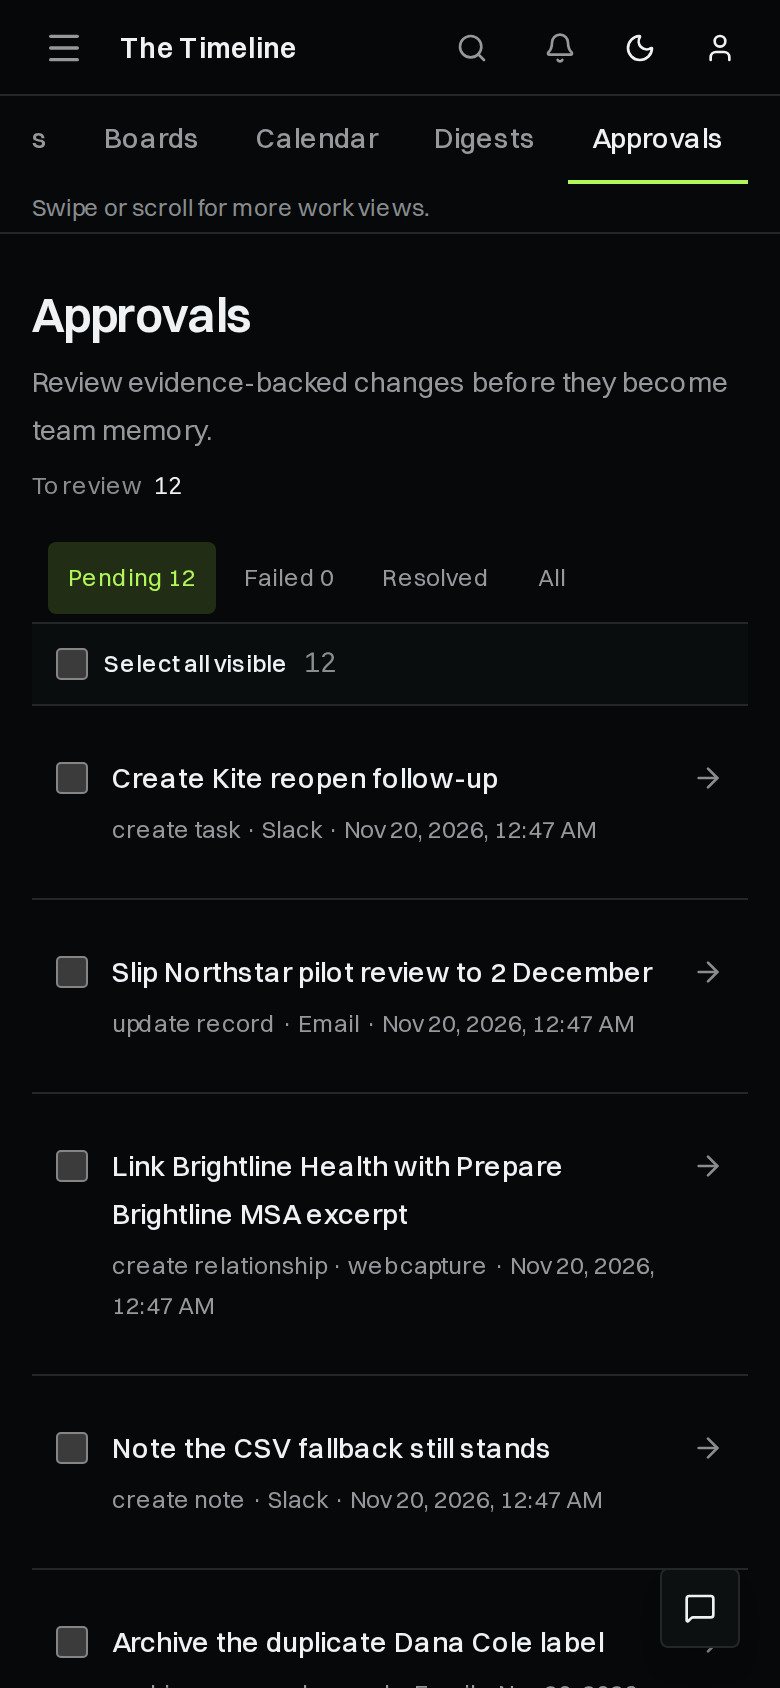
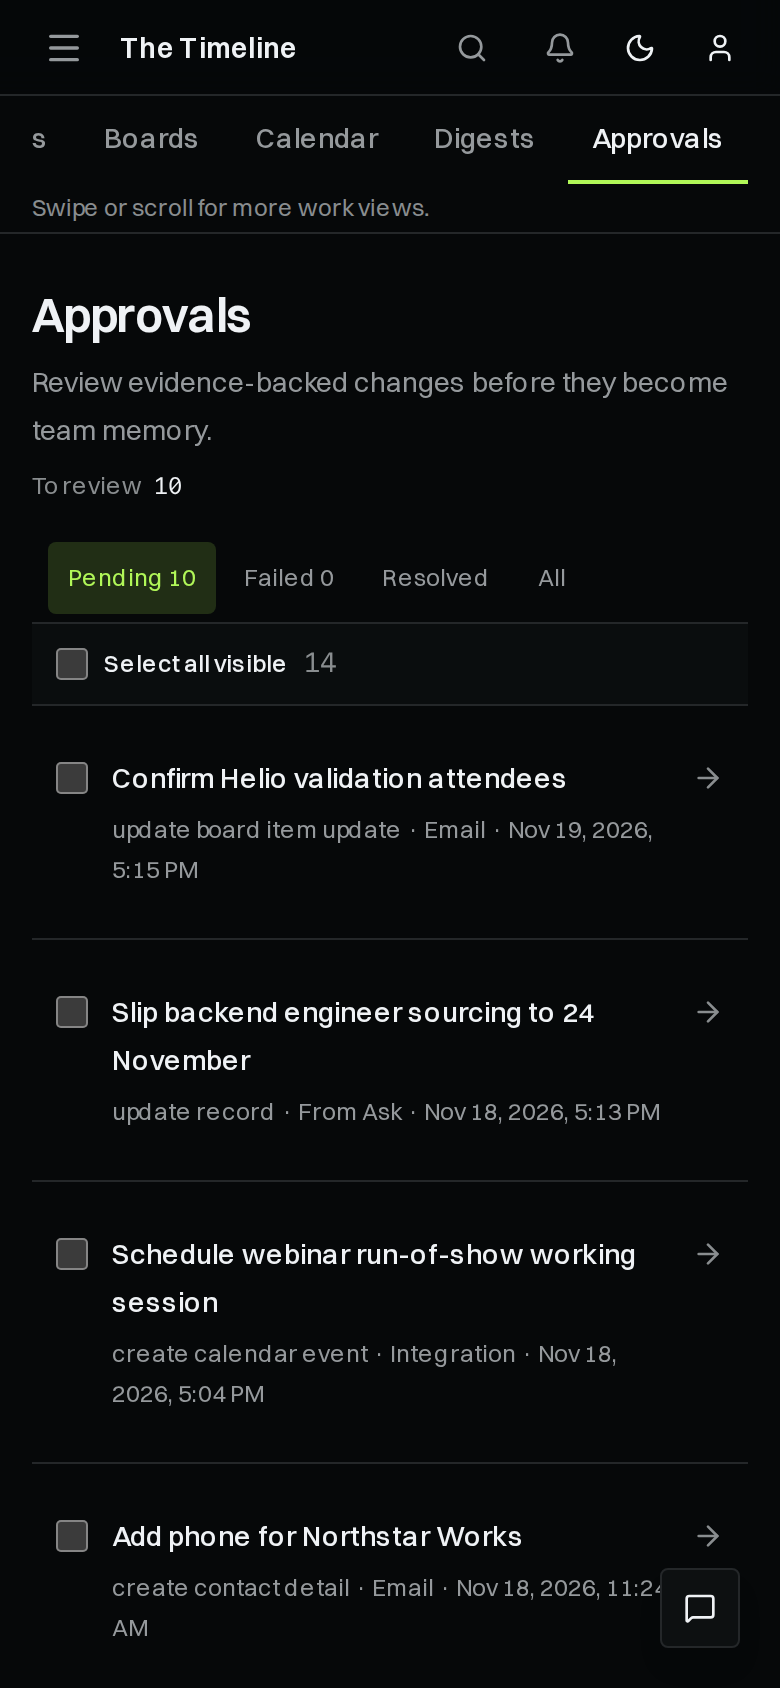
Stagger demo proposal and summary timestamps for marketing captures
Drive approval createdAt and object-summary generatedAt from evidence and
story source times so tour screenshots no longer share one seed-clock stamp.

diff --git a/scripts/demo-corpus/insert.ts b/scripts/demo-corpus/insert.ts
@@ -169,6 +169,38 @@ function seedNow(): Date {
   return getDemoSeedNow();
 }
 
+function corpusEventOccurredAt(eventId: string): Date {
+  const row = CORPUS_EVENTS.find((event) => event.id === eventId);
+  if (!row) throw new Error(`Missing corpus event ${eventId}`);
+  return new Date(row.occurredAt);
+}
+
+/** Proposal times follow the triggering evidence, staggered by index so the queue does not share one seed clock. */
+export function demoProposalCreatedAt(eventOccurredAt: string | Date, proposalIndex: number): Date {
+  const base = new Date(eventOccurredAt).getTime();
+  if (!Number.isFinite(base)) {
+    throw new Error(`Invalid evidence time for demo proposal index ${String(proposalIndex)}`);
+  }
+  // 8–N minutes after the evidence so same-day proposals stay distinct without collapsing to seedNow.
+  return new Date(base + (8 + proposalIndex * 13) * 60_000);
+}
+
+/** Object-summary "Updated" stamps follow the latest cited source, not the seed wall clock. */
+export function demoSummaryGeneratedAt(
+  latestSourceOccurredAt: string | Date,
+  lagMinutes = 35,
+): Date {
+  const base = new Date(latestSourceOccurredAt).getTime();
+  if (!Number.isFinite(base)) {
+    throw new Error('Invalid source time for demo object summary');
+  }
+  return new Date(base + lagMinutes * 60_000);
+}
+
+function proposalCreatedAt(eventId: string, proposalIndex: number): Date {
+  return demoProposalCreatedAt(corpusEventOccurredAt(eventId), proposalIndex);
+}
+
 export async function insertExpandedDemoCorpus(tx: SeedTx): Promise<void> {
   const passwordHash = await hashPassword(CORPUS_PASSWORD);
   await insertPeople(tx, passwordHash);
@@ -1123,7 +1155,7 @@ async function insertObjects(tx: SeedTx): Promise<void> {
           tasks: 0,
           changes: 0,
         },
-        generatedAt: seedNow(),
+        generatedAt: demoSummaryGeneratedAt(corpusEventOccurredAt(dataRoomEventId), 42),
         model: DEMO_FIXTURE_VERSION,
         promptVersion: DEMO_FIXTURE_VERSION,
       },
@@ -1182,7 +1214,7 @@ async function insertObjects(tx: SeedTx): Promise<void> {
           tasks: 1,
           changes: 0,
         },
-        generatedAt: seedNow(),
+        generatedAt: demoSummaryGeneratedAt(corpusEventOccurredAt(northstarVoiceEventId), 28),
         model: DEMO_FIXTURE_VERSION,
         promptVersion: DEMO_FIXTURE_VERSION,
       },
@@ -1221,7 +1253,7 @@ async function insertObjects(tx: SeedTx): Promise<void> {
           tasks: 0,
           changes: 0,
         },
-        generatedAt: seedNow(),
+        generatedAt: demoSummaryGeneratedAt(corpusEventOccurredAt(invoicePaidEventId), 31),
         model: DEMO_FIXTURE_VERSION,
         promptVersion: DEMO_FIXTURE_VERSION,
       },
@@ -1234,6 +1266,7 @@ async function insertObjects(tx: SeedTx): Promise<void> {
         entityId: sql`excluded.entity_id`,
         sourceRefs: sql`excluded.source_refs`,
         sourceCounts: sql`excluded.source_counts`,
+        generatedAt: sql`excluded.generated_at`,
       },
     });
 
@@ -1665,21 +1698,24 @@ async function insertProposals(tx: SeedTx): Promise<void> {
   await tx
     .insert(agentSuggestions)
     .values(
-      CORPUS_PROPOSALS.map((row) => ({
-        id: row.id,
-        teamId: TEAM_ID,
-        source: row.source,
-        status: 'pending' as const,
-        title: row.title,
-        summary: row.summary,
-        reason: row.summary,
-        confidence: 'high' as const,
-        dedupeKey: `demo-seed:proposal:${row.id}`,
-        visibility: 'team' as const,
-        metadata: { fixture_version: DEMO_FIXTURE_VERSION },
-        createdAt: seedNow(),
-        updatedAt: seedNow(),
-      })),
+      CORPUS_PROPOSALS.map((row, index) => {
+        const createdAt = proposalCreatedAt(row.eventId, index);
+        return {
+          id: row.id,
+          teamId: TEAM_ID,
+          source: row.source,
+          status: 'pending' as const,
+          title: row.title,
+          summary: row.summary,
+          reason: row.summary,
+          confidence: 'high' as const,
+          dedupeKey: `demo-seed:proposal:${row.id}`,
+          visibility: 'team' as const,
+          metadata: { fixture_version: DEMO_FIXTURE_VERSION },
+          createdAt,
+          updatedAt: createdAt,
+        };
+      }),
     )
     .onConflictDoUpdate({
       target: agentSuggestions.id,
@@ -1689,26 +1725,32 @@ async function insertProposals(tx: SeedTx): Promise<void> {
         reason: sql`excluded.reason`,
         source: sql`excluded.source`,
         status: sql`excluded.status`,
-        updatedAt: seedNow(),
+        createdAt: sql`excluded.created_at`,
+        updatedAt: sql`excluded.updated_at`,
       },
     });
   await tx
     .insert(agentSuggestionItems)
     .values(
-      CORPUS_PROPOSALS.map((row) => ({
-        id: row.itemId,
-        suggestionId: row.id,
-        teamId: TEAM_ID,
-        status: 'pending' as const,
-        operation: row.operation,
-        targetKind: row.targetKind,
-        targetId: 'targetId' in row ? row.targetId : null,
-        title: row.title,
-        description: row.summary,
-        dedupeKey: `demo-seed:proposal-item:${row.itemId}`,
-        proposedPayload: row.proposedPayload,
-        metadata: { fixture_version: DEMO_FIXTURE_VERSION },
-      })),
+      CORPUS_PROPOSALS.map((row, index) => {
+        const createdAt = proposalCreatedAt(row.eventId, index);
+        return {
+          id: row.itemId,
+          suggestionId: row.id,
+          teamId: TEAM_ID,
+          status: 'pending' as const,
+          operation: row.operation,
+          targetKind: row.targetKind,
+          targetId: 'targetId' in row ? row.targetId : null,
+          title: row.title,
+          description: row.summary,
+          dedupeKey: `demo-seed:proposal-item:${row.itemId}`,
+          proposedPayload: row.proposedPayload,
+          metadata: { fixture_version: DEMO_FIXTURE_VERSION },
+          createdAt,
+          updatedAt: createdAt,
+        };
+      }),
     )
     .onConflictDoUpdate({
       target: agentSuggestionItems.id,
@@ -1720,6 +1762,8 @@ async function insertProposals(tx: SeedTx): Promise<void> {
         description: sql`excluded.description`,
         proposedPayload: sql`excluded.proposed_payload`,
         status: sql`excluded.status`,
+        createdAt: sql`excluded.created_at`,
+        updatedAt: sql`excluded.updated_at`,
       },
     });
   await tx

diff --git a/scripts/demo-fixture.test.ts b/scripts/demo-fixture.test.ts
@@ -11,6 +11,7 @@ import {
   dateAt,
   demoSeedNowIso,
   demoTimes,
+  getDemoSeedNow,
   isoAt,
   latestDigestDayOffset,
   localDay,
@@ -72,6 +73,7 @@ import {
   refreshDemoCorpus,
   type ExpandedDemoCorpusSnapshot,
 } from './demo-corpus/index.js';
+import { demoProposalCreatedAt, demoSummaryGeneratedAt } from './demo-corpus/insert.js';
 
 const localEnv = {
   DATABASE_URL: 'postgres://timeline:timeline_dev@localhost:5432/timeline',
@@ -1270,6 +1272,41 @@ function assertVerifyRestoresClockBeforeDocumentDownload(): void {
   }
 }
 
+function assertProposalAndSummaryTimestampsFollowEvidence(): void {
+  const root = dirname(fileURLToPath(import.meta.url));
+  const insertSource = readFileSync(join(root, 'demo-corpus', 'insert.ts'), 'utf8');
+  assert.match(insertSource, /function demoProposalCreatedAt/);
+  assert.match(insertSource, /function demoSummaryGeneratedAt/);
+  assert.doesNotMatch(
+    insertSource.slice(
+      insertSource.indexOf('async function insertProposals'),
+      insertSource.indexOf('async function insertChats'),
+    ),
+    /createdAt:\s*seedNow\(\)/,
+  );
+
+  refreshDemoCorpus();
+  const seedNow = getDemoSeedNow().getTime();
+  const proposalTimes = CORPUS_PROPOSALS.map((row, index) => {
+    const event = CORPUS_EVENTS.find((candidate) => candidate.id === row.eventId);
+    assert.ok(event, `proposal ${row.title} has evidence`);
+    const createdAt = demoProposalCreatedAt(event.occurredAt, index);
+    assert.ok(
+      createdAt.getTime() > new Date(event.occurredAt).getTime(),
+      `${row.title} should be after its evidence`,
+    );
+    assert.notEqual(createdAt.getTime(), seedNow, `${row.title} must not use the seed wall clock`);
+    return createdAt.toISOString();
+  });
+  assertUnique(proposalTimes, 'demo proposal createdAt values');
+
+  const voice = CORPUS_EVENTS.find((row) => row.contentText.includes('Voice memo from Avery'));
+  assert.ok(voice);
+  const summaryAt = demoSummaryGeneratedAt(voice.occurredAt, 28);
+  assert.ok(summaryAt.getTime() > new Date(voice.occurredAt).getTime());
+  assert.notEqual(summaryAt.getTime(), seedNow);
+}
+
 function assertDailyDigestConflictUpdatesWindows(): void {
   const root = dirname(fileURLToPath(import.meta.url));
   const source = readFileSync(join(root, 'demo-corpus', 'insert.ts'), 'utf8');
@@ -1309,3 +1346,4 @@ function assertDailyDigestConflictUpdatesWindows(): void {
 
 assertVerifyRestoresClockBeforeDocumentDownload();
 assertDailyDigestConflictUpdatesWindows();
+assertProposalAndSummaryTimestampsFollowEvidence();
